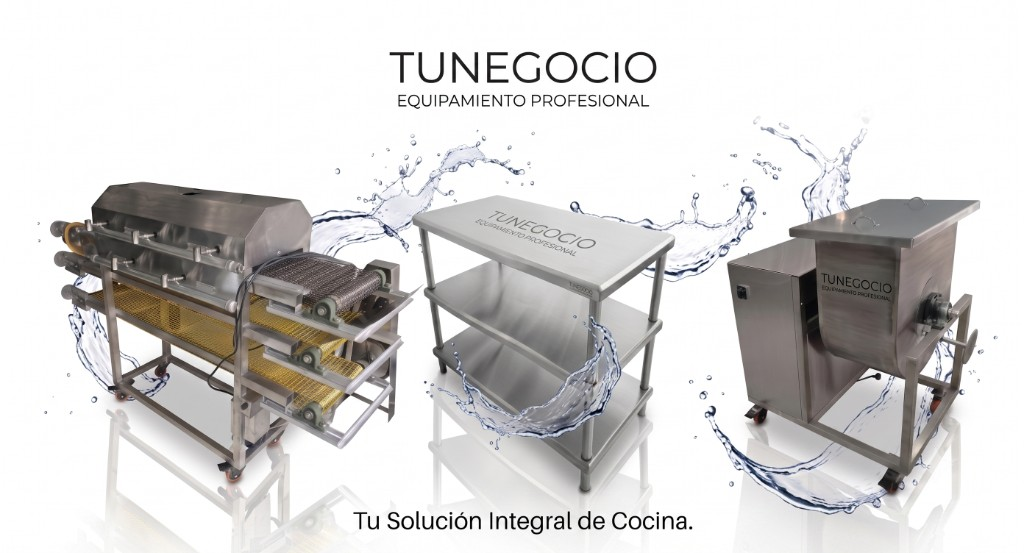
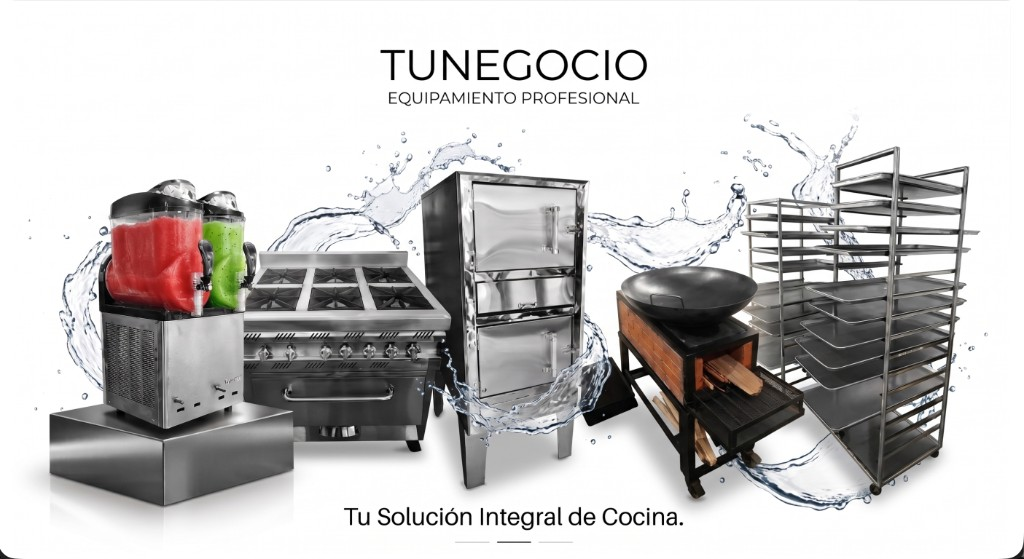
cambios

diff --git a/src/app/pages/home/home.component.ts b/src/app/pages/home/home.component.ts
@@ -38,16 +38,16 @@ export class HomeComponent implements OnInit, OnDestroy, AfterViewInit {
 
   protected readonly heroSlides = [
     {
-      src: 'assets/hero-banner.png',
-      alt: 'TUNEGOCIO equipamiento profesional de cocina industrial en acero inoxidable',
+      src: 'assets/banners/banner-01-equipamiento-profesional.png',
+      alt: 'TUNEGOCIO equipamiento profesional — tu solución integral de cocina',
     },
     {
-      src: 'assets/categorias/equipamiento-profesional.png',
-      alt: 'TUNEGOCIO equipamiento profesional — maquinaria industrial en acero inoxidable',
+      src: 'assets/banners/banner-02-maquinaria.jpeg',
+      alt: 'TUNEGOCIO maquinaria industrial en acero inoxidable',
     },
     {
-      src: 'assets/categorias/maquinariaespecial.png',
-      alt: 'Maquinaria industrial especializada TUNEGOCIO en acero inoxidable',
+      src: 'assets/banners/banner-03-asadores.png',
+      alt: 'Asadores de pollos industriales TUNEGOCIO en acero inoxidable',
     },
   ];
 

diff --git a/src/app/pages/ubicaciones/ubicaciones.component.ts b/src/app/pages/ubicaciones/ubicaciones.component.ts
@@ -43,16 +43,16 @@ export class UbicacionesComponent implements OnInit, OnDestroy {
 
   protected readonly heroSlides = [
     {
-      src: '/assets/categorias/equipamiento-profesional.png',
-      alt: 'TUNEGOCIO equipamiento profesional — maquinaria industrial en acero inoxidable',
+      src: '/assets/banners/banner-01-equipamiento-profesional.png',
+      alt: 'TUNEGOCIO equipamiento profesional — tu solución integral de cocina',
     },
     {
-      src: '/assets/hero-banner.png',
-      alt: 'TUNEGOCIO equipamiento profesional de cocina industrial en acero inoxidable',
+      src: '/assets/banners/banner-02-maquinaria.jpeg',
+      alt: 'TUNEGOCIO maquinaria industrial en acero inoxidable',
     },
     {
-      src: '/assets/categorias/maquinariaespecial.png',
-      alt: 'Maquinaria industrial especializada TUNEGOCIO en acero inoxidable',
+      src: '/assets/banners/banner-03-asadores.png',
+      alt: 'Asadores de pollos industriales TUNEGOCIO en acero inoxidable',
     },
   ];
 

diff --git a/src/app/core/constants/categories.ts b/src/app/core/constants/categories.ts
@@ -55,7 +55,8 @@ export const CATEGORY_LIST: CategoryPageData[] = [
       'Equipos especializados para líneas de producción, procesamiento y operación gastronómica.',
     heading: 'Maquinaria especializada',
     intro: 'Soluciones a medida para procesos específicos.',
-    image: categoryImage('maquinariaespecial.png'),
+    image:
+      'assets/categorias/MAQUINARIA ESPECIALIZADA - TUNEGOCIO.COM/imgi_45_WhatsApp-Image-2026-05-27-at-3.24.15-PM-1.jpg',
   },
   {
     slug: 'sistemas-de-extraccion',

diff --git a/public/assets/categorias/README.md b/public/assets/categorias/README.md
@@ -9,8 +9,6 @@ Sube aquí las fotos de cada categoría. Usa estos nombres exactos:
 | `estufasindustriales.png` | Estufas industriales |
 | `vitrinas.png` | Vitrinas |
 | `mesonesenacero.png` | Mesones en acero |
-| `maquinariaespecial.png` | Maquinaria especializada |
-| `carrosdecomida.png` | Carros de comidas |
 | `maquinaria.png` | Maquinaria |
 
 Formato: **PNG** con fondo blanco, mínimo **600×450 px**.